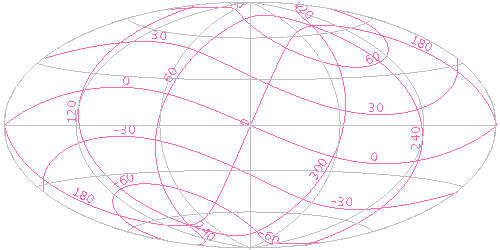
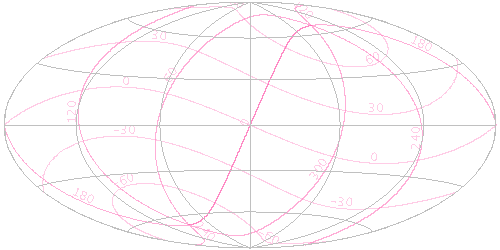
ttools: adjust skygrid plot example
Add a non-opaque transparency setting to the Plot2Example plot
for skygrid.  This makes the plot look worse, but that will be
fixed by a subsequent commit (whose benefit would otherwise be
hard to see).

diff --git a/ttools/src/main/uk/ac/starlink/ttools/build/Plot2Example.java b/ttools/src/main/uk/ac/starlink/ttools/build/Plot2Example.java
@@ -1589,7 +1589,8 @@ public class Plot2Example {
                 "xpix=500", "ypix=250", "projection=aitoff", null,
                 "*viewsys=equatorial", "labelpos=none", "*sex=false", null,
                 "*layer1=skygrid", "*gridsys1=ecliptic",
-                "*gridcolor1=HotPink", "*labelpos1=internal",
+                "*gridcolor1=HotPink", "*transparency1=0.7",
+                "*labelpos1=internal",
             } ),
             new Plot2Example( "layer-spheregrid", c, PlotTask.SPHERE,
                               new String[] {
